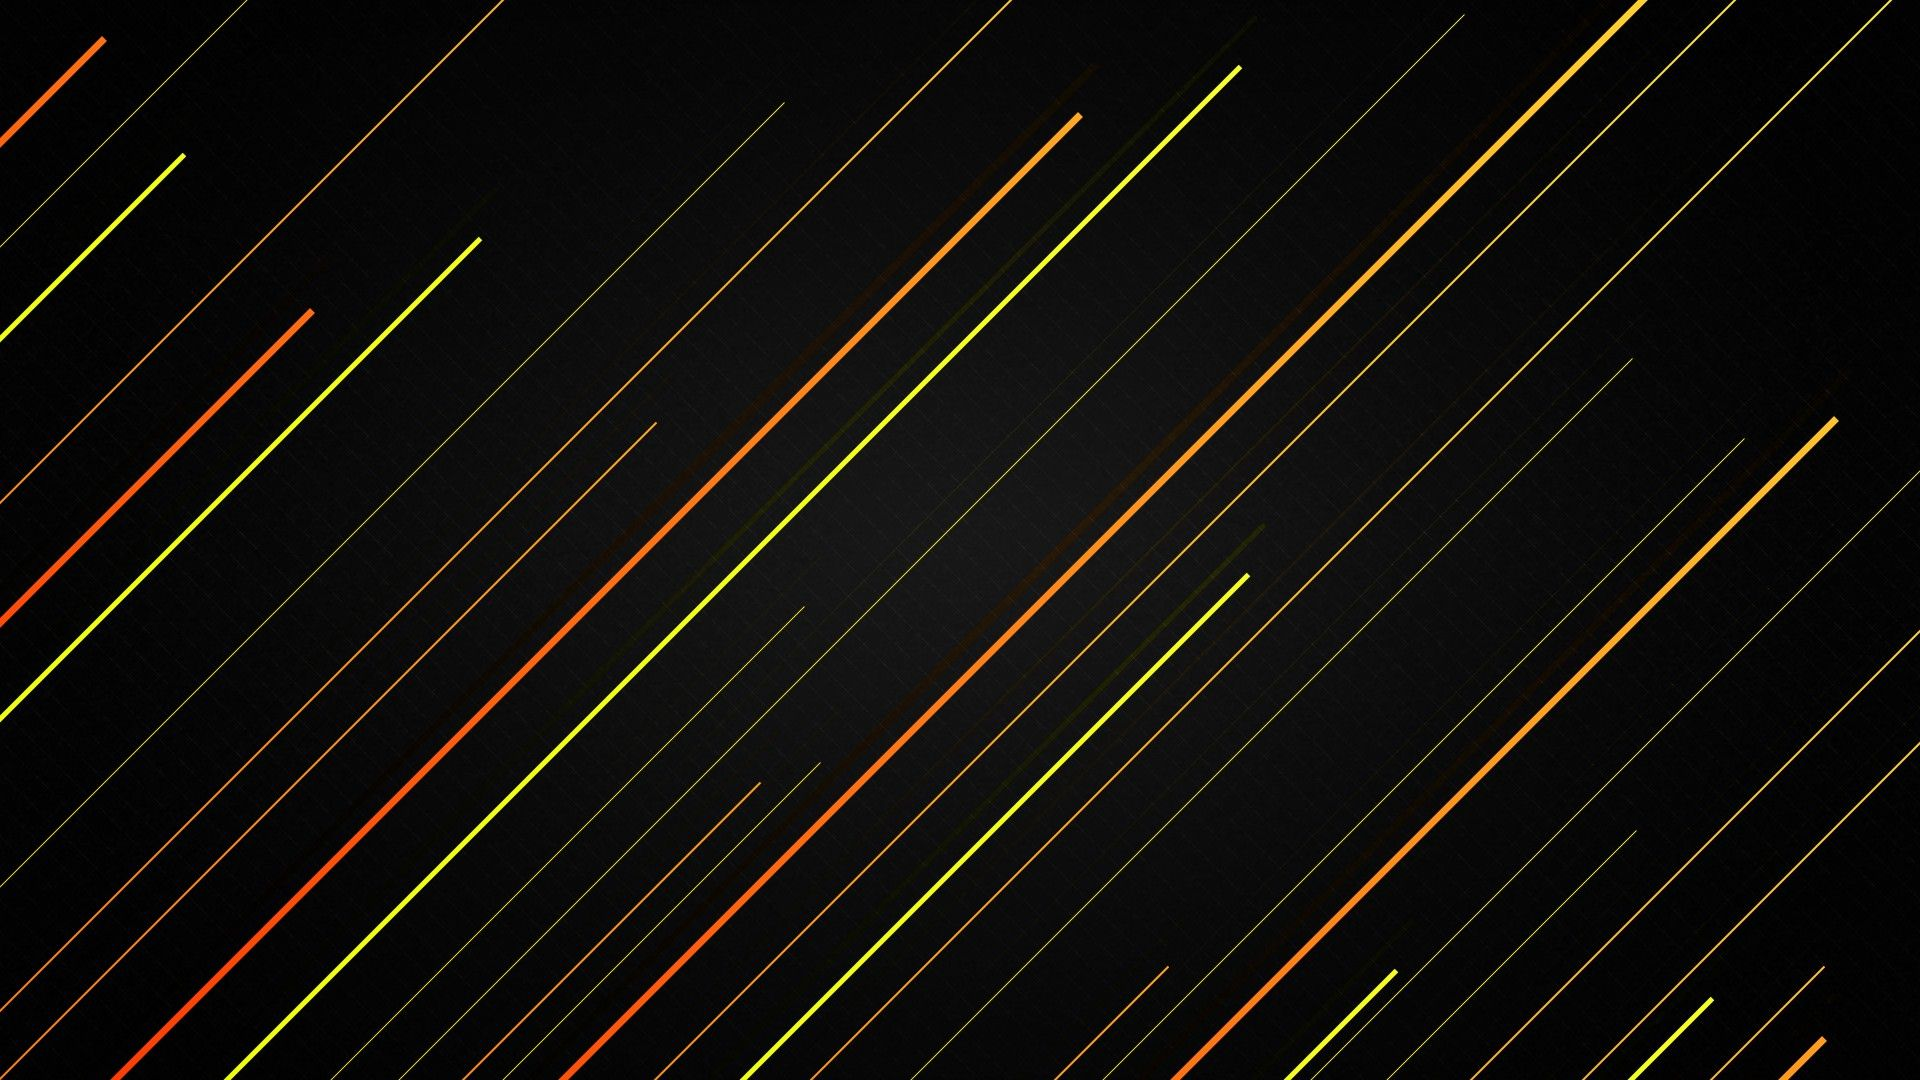
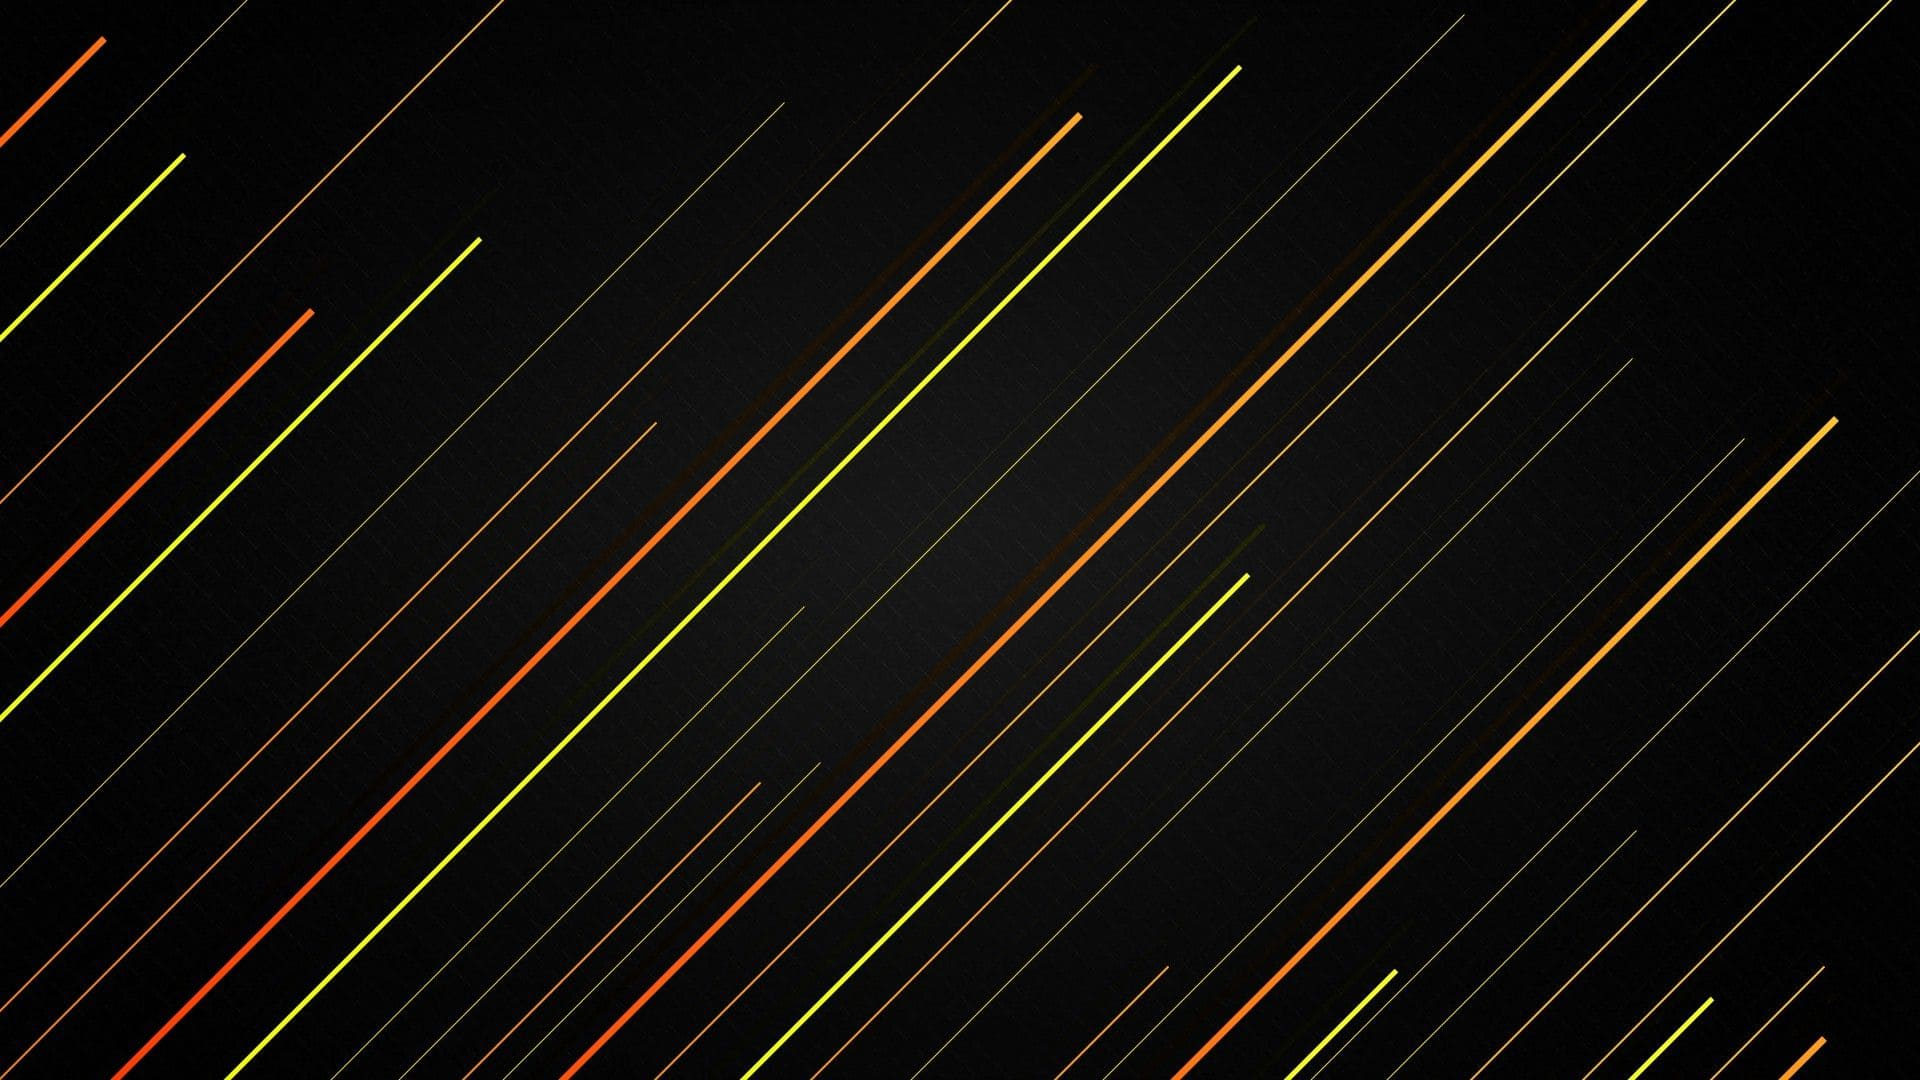
Compressed images, minor bugfix

Changed region(s): [[0.6875, 0.9167, 0.7188, 0.9472]]

diff --git a/static/js/sorts/customsort.js b/static/js/sorts/customsort.js
@@ -151,6 +151,7 @@ window.addEventListener("load", () => {
             await sleep(3000);
             clicked = false;
             byId("success-popup").style.opacity = 0;
+            submit.style.cursor = "default";
             submit.disabled = false;
         });
 
@@ -182,7 +183,11 @@ function injectSort(code, entryPoint) {
             byId("btn-submit-text").innerHTML = "SUBMIT";
             byId("btn-submit-icon").innerHTML = "<i class='material-icons'>file_upload</i>";
 
-            if (!startSorted && afterSorted && code != instructions && entryPoint != "selectionSort") byId("success-popup").style.opacity = 1;
+            if (!startSorted && afterSorted && code != instructions && entryPoint != "selectionSort") {
+                byId("success-popup").style.opacity = 1;
+                byId("btn-submit").style.cursor = "pointer";
+                byId("btn-submit").disabled = false;
+            }
             sleep(5000).then(
                 () => {
                     if (!clicked) successPopup.style.opacity = 0;

diff --git a/templates/parents/base_custom.html b/templates/parents/base_custom.html
@@ -87,7 +87,7 @@
                         Click the button below to submit<br>
                         your code and send it to us!
                     </div>
-                    <button class="btn-code" id="btn-submit" type="button">
+                    <button class="btn-code" id="btn-submit" type="button" style="cursor: default" disabled>
                         <span class="btn-text" id="btn-submit-text">SUBMIT</span>
                         <span class="btn-icon" id="btn-submit-icon"><i class="material-icons">file_upload</i></span>
                     </button>

diff --git a/app.py b/app.py
@@ -14,7 +14,7 @@ limiter = Limiter(app, key_func=get_remote_address)
 TELEGRAM_KEY = os.environ.get("TELEGRAM_KEY")
 CHAT_ID = -1001520685235
 
-bot = Bot(TELEGRAM_KEY)
+# bot = Bot(TELEGRAM_KEY)
 
 @app.route("/")
 def home():
